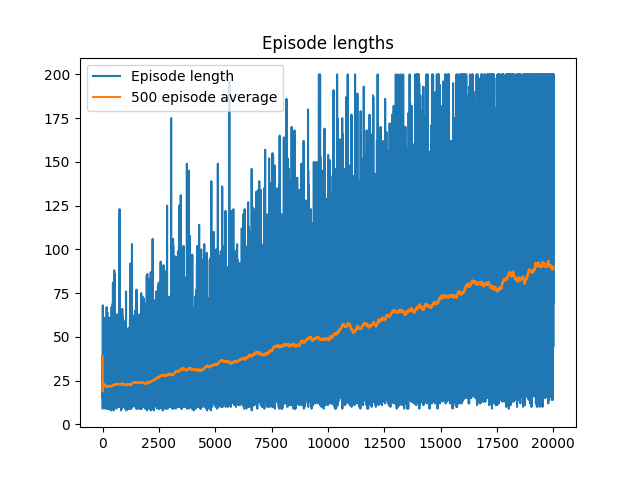
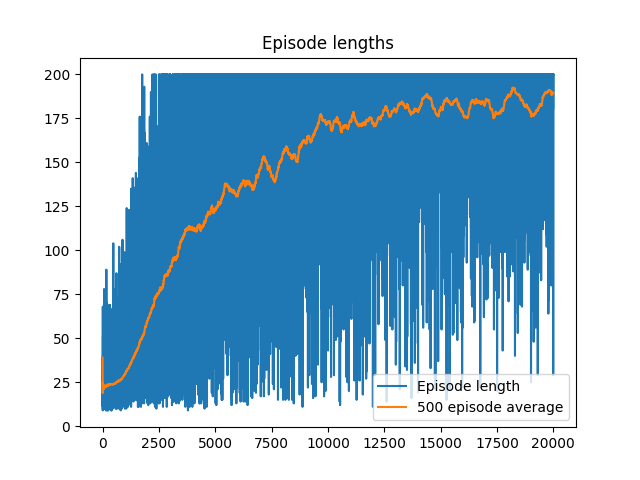
Ex3: bug with a parameter fixed and plots updated

diff --git a/exercise-3/qlearning.py b/exercise-3/qlearning.py
@@ -33,7 +33,7 @@ av_min, av_max = -4, 4
 gamma = 0.98
 alpha = 0.1
 target_eps = 0.1
-a = 0  # TODO: Set the correct value.
+a = round(target_eps * episodes / (1 - target_eps))
 initial_q = 0  # T3: Set to 50
 
 # Create discretization grid
@@ -176,9 +176,6 @@ def annotate_heatmap(im, data=None, valfmt="{x:.2f}",
             texts.append(text)
 
     return texts
-
-
-a = episodes / (1.0 - 0.01)
 
 
 def get_epsilon(args, step):
